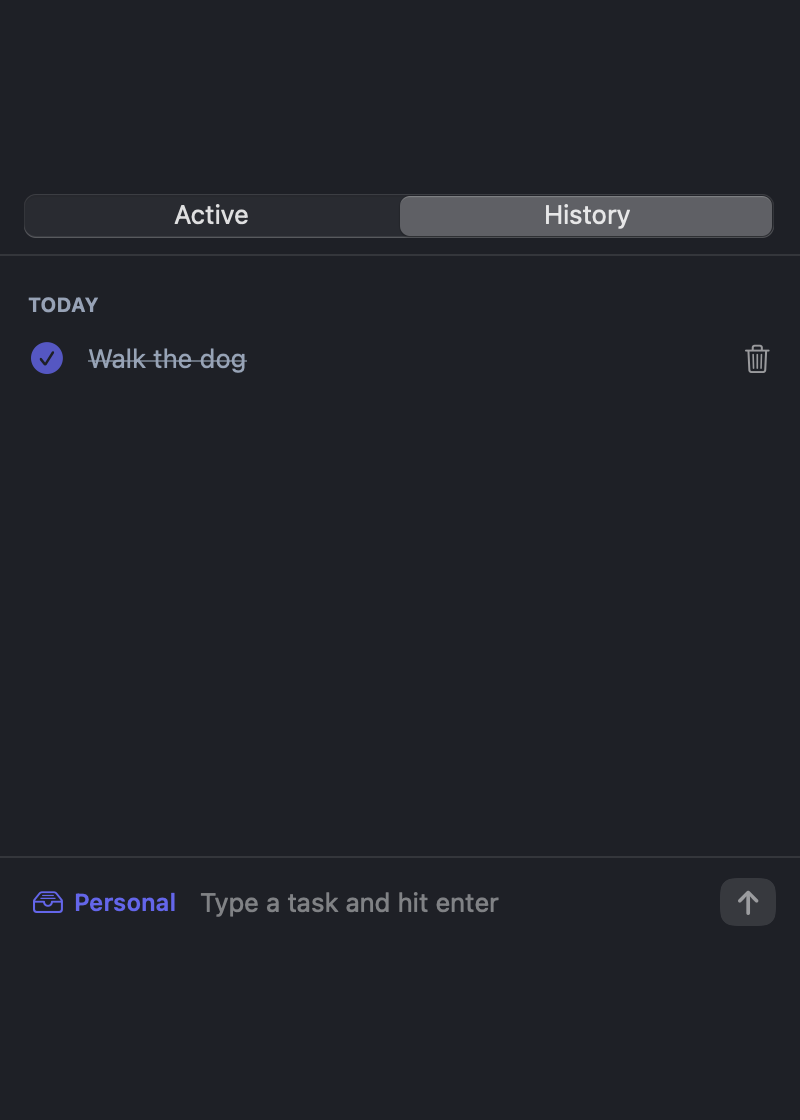
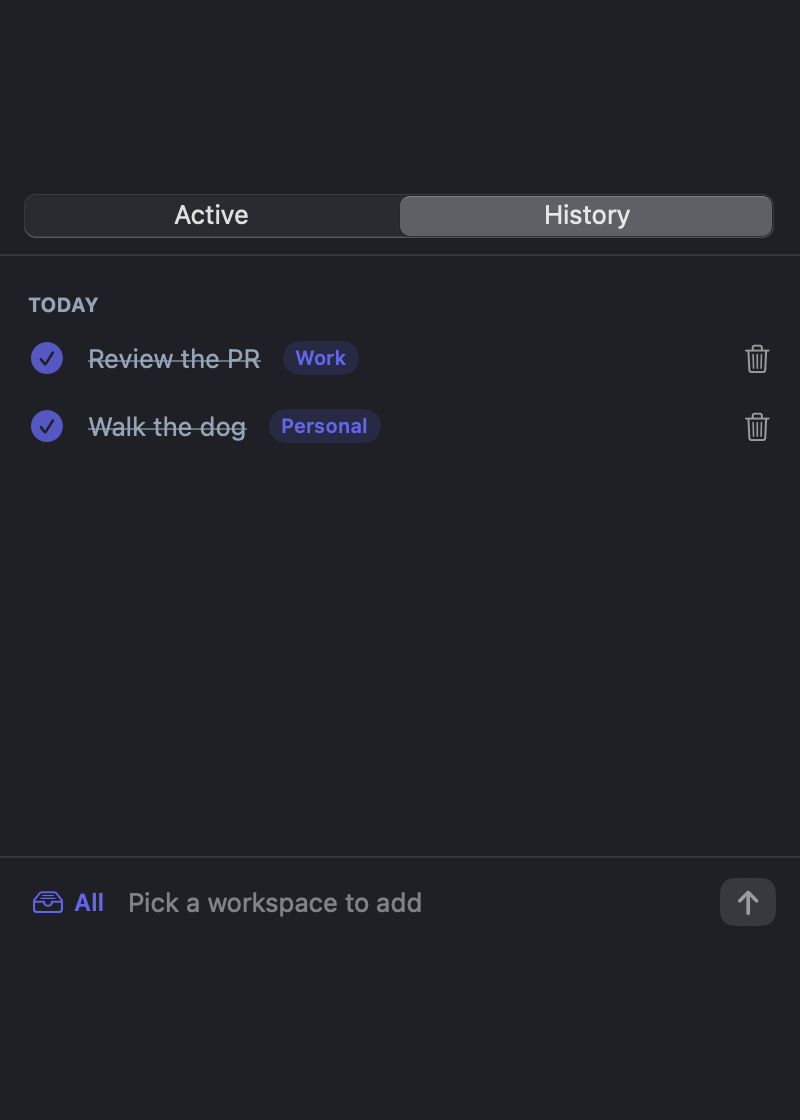
fix: back up unreadable state, keep read-error flag, tag history workspaces in All view

diff --git a/app/App.swift b/app/App.swift
@@ -13,6 +13,9 @@ final class TodoStore: ObservableObject {
 
     private let defaults: UserDefaults
     private let key = "todostate.v1"
+    private let backupKey = "todostate.v1.unreadable-backup"
+    private let readErrorText = "Could not read saved todos (a backup was kept)"
+    private let saveErrorText = "Could not save todos"
 
     init(defaults: UserDefaults = .standard) {
         self.defaults = defaults
@@ -22,8 +25,9 @@ final class TodoStore: ObservableObject {
                 loaded.normalizeSelection()
                 state = loaded
             } catch {
+                defaults.set(data, forKey: backupKey)
                 state = .seeded()
-                errorText = "Could not read saved todos"
+                errorText = readErrorText
             }
         } else {
             state = .seeded()
@@ -55,9 +59,9 @@ final class TodoStore: ObservableObject {
         do {
             let data = try JSONEncoder().encode(state)
             defaults.set(data, forKey: key)
-            errorText = nil
+            if errorText == saveErrorText { errorText = nil }
         } catch {
-            errorText = "Could not save todos"
+            errorText = saveErrorText
         }
     }
 }
@@ -172,7 +176,6 @@ struct ContentView: View {
         }
     }
 
-    // MARK: Content
 
     @ViewBuilder
     private var content: some View {
@@ -251,6 +254,14 @@ struct ContentView: View {
                 .font(.system(size: 13))
                 .foregroundStyle(Color.textDim)
                 .strikethrough(true, color: Color.textDim.opacity(0.6))
+            if store.state.selection == .all, let ws = store.state.workspace(todo.workspaceId) {
+                Text(ws.name)
+                    .font(.system(size: 10, weight: .semibold))
+                    .foregroundStyle(Color.accentIndigo)
+                    .padding(.horizontal, 6)
+                    .padding(.vertical, 2)
+                    .background(Color.accentIndigo.opacity(0.14), in: Capsule())
+            }
             Spacer(minLength: 8)
             trashButton(todo)
         }
@@ -286,7 +297,6 @@ struct ContentView: View {
         .padding(.top, 40)
     }
 
-    // MARK: Bottom bar
 
     private var bottomBar: some View {
         HStack(spacing: 8) {
@@ -365,7 +375,6 @@ struct ContentView: View {
         input = ""
     }
 
-    // MARK: Overlay
 
     @ViewBuilder
     private var overlayCard: some View {
@@ -463,8 +472,8 @@ func makeSampleStore(selectAll: Bool = false) -> TodoStore {
     store.addTodo("Ship the release", to: work.id)
     store.addTodo("Review the PR", to: work.id)
     store.addTodo("Walk the dog", to: personal.id)
-    if let dog = store.state.activeTodos(for: .workspace(personal.id)).first(where: { $0.text == "Walk the dog" }) {
-        store.complete(dog.id)
+    for done in ["Walk the dog", "Review the PR"] {
+        if let t = store.state.todos.first(where: { $0.text == done }) { store.complete(t.id) }
     }
     store.select(selectAll ? .all : .workspace(personal.id))
     return store
@@ -485,7 +494,7 @@ enum RenderMain {
         let tab: Tab
         switch mode {
         case "all":     store = makeSampleStore(selectAll: true);  tab = .active
-        case "history": store = makeSampleStore(selectAll: false); tab = .history
+        case "history": store = makeSampleStore(selectAll: true);  tab = .history
         default:        store = makeSampleStore(selectAll: false); tab = .active
         }
 
